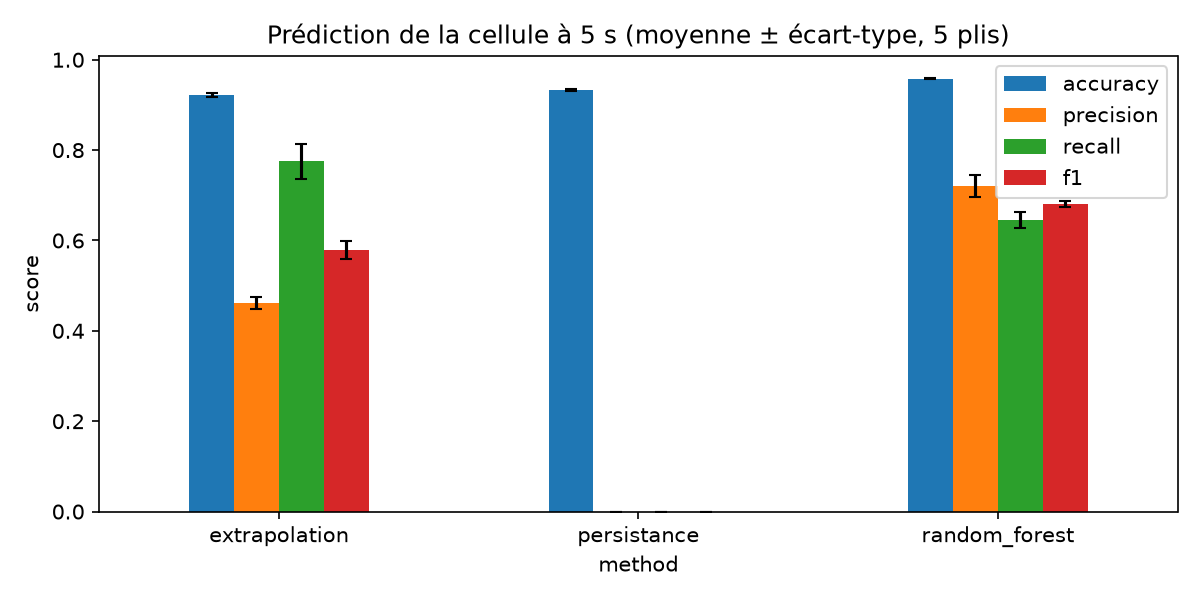
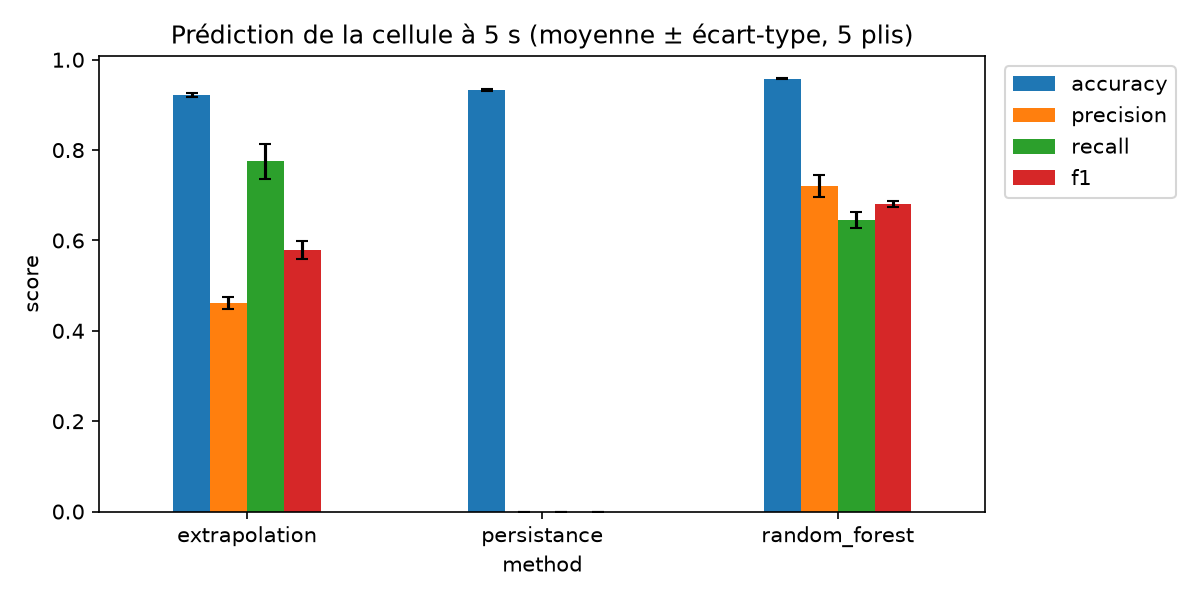
atilier 18: figure plus lisible

diff --git a/scripts/plot_mobility_prediction.py b/scripts/plot_mobility_prediction.py
@@ -9,6 +9,8 @@ m = g.xs("mean", axis=1, level=1)
 s = g.xs("std", axis=1, level=1)
 m.plot(kind="bar", yerr=s, capsize=3, figsize=(8, 4),
        title="Prédiction de la cellule à 5 s (moyenne ± écart-type, 5 plis)")
-plt.ylabel("score"); plt.xticks(rotation=0); plt.tight_layout()
+plt.ylabel("score"); plt.xticks(rotation=0)
+plt.legend(loc="upper left", bbox_to_anchor=(1.01, 1))
+plt.tight_layout()
 plt.savefig("figures/18_prediction_mobilite.png", dpi=150)
 print("OK")
